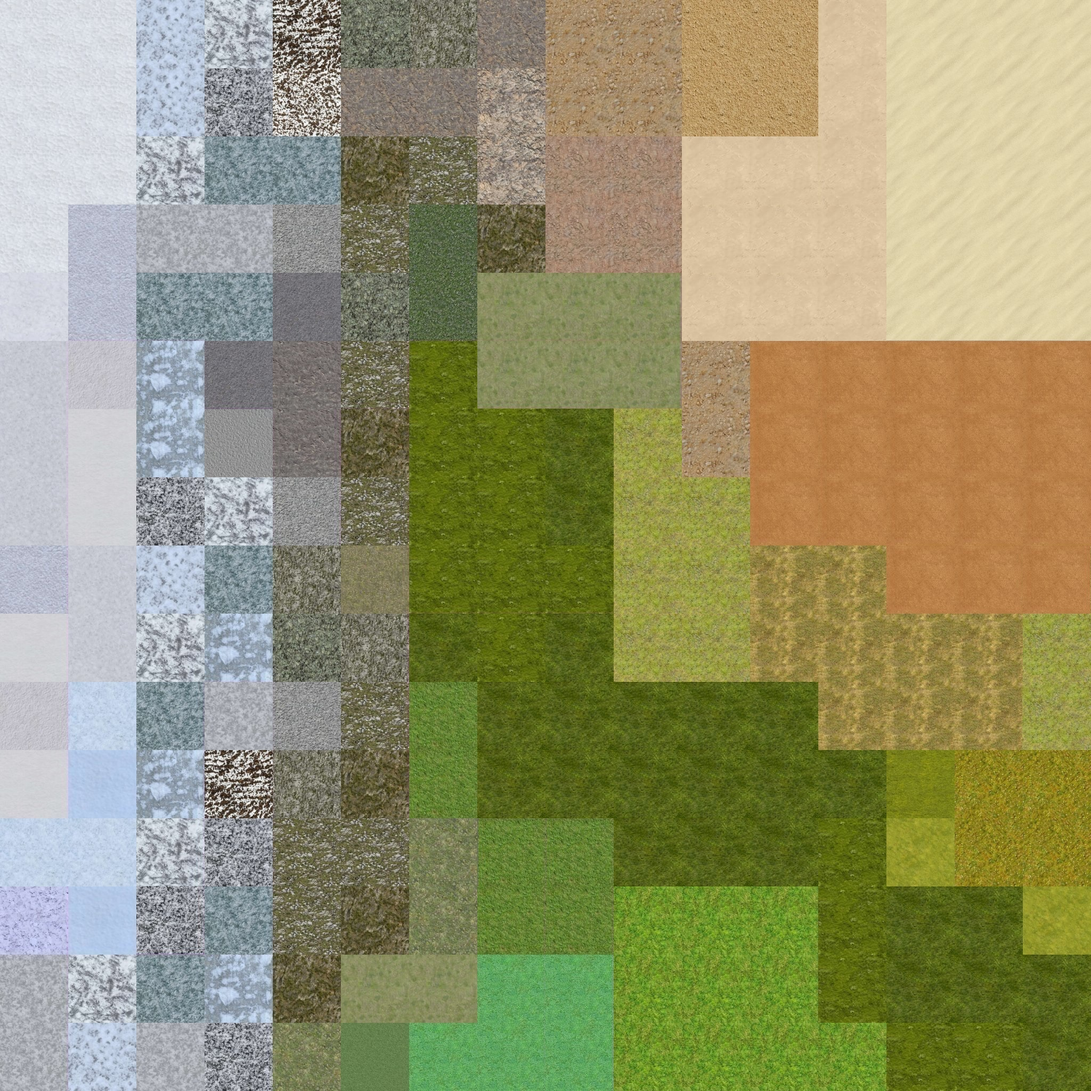
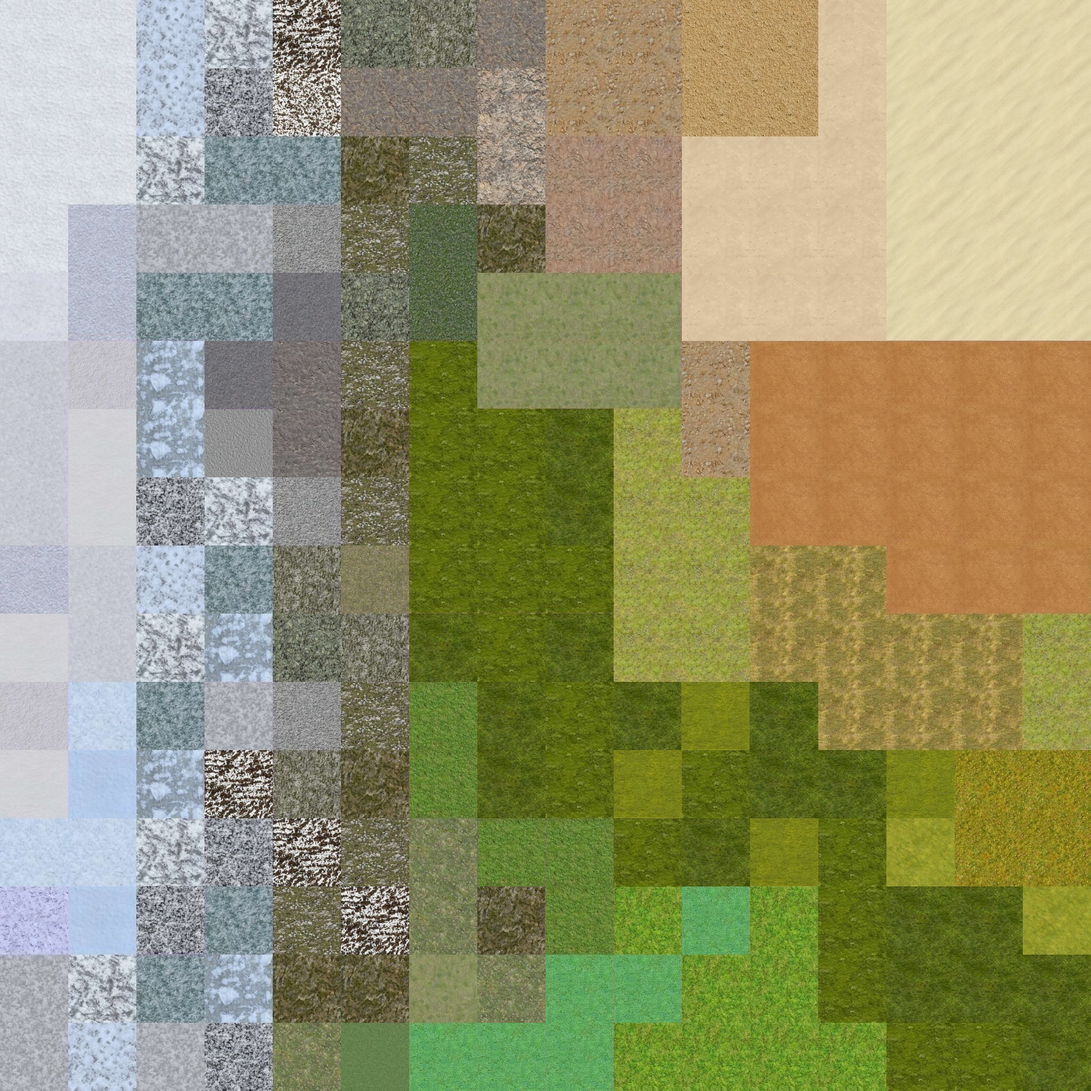
update

diff --git a/orbiters3/dsappclient.cpp b/orbiters3/dsappclient.cpp
@@ -49,18 +49,18 @@ MultiFractalBinder::MultiFractalBinder( void ) :
 m_mask_seed1( 635.298681 ),
 m_mask_seed2( 682.357502 ),
 m_mask_input_half_range( 20.0 ),
-m_mountains_lacunarity( 2.15 ),
-m_mountains_roughness( 0.25 ),
+m_mountains_lacunarity( 2.0 ),
+m_mountains_roughness( 0.35 ),
 m_mountains_input_half_range( 16.0 ),
-m_mountains_amplitude( 4000.0 ),
+m_mountains_amplitude( 1600.0 ),
 m_mountains_seed1( 635.298681 ),
 m_mountains_seed2( 682.357502 ),
 m_plains_lacunarity( 2.6 ),
 m_plains_roughness( 0.5 ),
 m_plains_input_half_range( 0.8 ),
-m_plains_amplitude( 1000.0 ),
-m_plains_seed1( 635.298681 ),
-m_plains_seed2( 682.357502 ),
+m_plains_amplitude( 800.0 ),
+m_plains_seed1( 221.0 ),
+m_plains_seed2( 144.0 ),
 m_vertical_offset( 0.0 )
 {
     m_renderer = SingletonPlugin<DrawSpace::Interface::Renderer>::GetInstance()->m_interface;
@@ -548,16 +548,6 @@ void dsAppClient::init_planet( void )
 
         m_planet_collisions_binder[i]->SetFx( collisions_fx );
 
-        m_planet_collisions_binder[i]->m_mask_seed1 = 671.0;
-        m_planet_collisions_binder[i]->m_mask_seed2 = 8444.0;
-
-        //m_planet_collisions_binder[i]->m_vertical_offset = -1500.0;
-        m_planet_collisions_binder[i]->m_mountains_input_half_range = 16.0;
-        m_planet_collisions_binder[i]->m_mountains_lacunarity = 2.0;
-        m_planet_collisions_binder[i]->m_mountains_roughness = 0.35;
-
-        m_planet_collisions_binder[i]->m_plains_seed1 = 178.0;
-        m_planet_collisions_binder[i]->m_plains_seed2 = 3400.0;
 
     }
 
@@ -570,21 +560,6 @@ void dsAppClient::init_planet( void )
     for( int i = 0; i < 6; i++ )
     {
         m_planet_climate_binder[i]->SetFx( climate_fx );
-
-
-        m_planet_climate_binder[i]->m_mask_seed1 = 671.0;
-        m_planet_climate_binder[i]->m_mask_seed2 = 8444.0;
-
-        //m_planet_climate_binder[i]->m_vertical_offset = -1500.0;
-
-        m_planet_climate_binder[i]->m_mountains_input_half_range = 16.0;
-        m_planet_climate_binder[i]->m_mountains_lacunarity = 2.0;
-        m_planet_climate_binder[i]->m_mountains_roughness = 0.35;
-
-
-        m_planet_climate_binder[i]->m_plains_seed1 = 178.0;
-        m_planet_climate_binder[i]->m_plains_seed2 = 3400.0;
-
     }
 
 
@@ -608,18 +583,6 @@ void dsAppClient::init_planet( void )
         m_planet_detail_binder[i]->SetTexture( texture_th_pixels, 1 );
         m_planet_detail_binder[i]->SetTexture( texture_th_splatting, 2 );
 
-
-        m_planet_detail_binder[i]->m_mask_seed1 = 671.0;
-        m_planet_detail_binder[i]->m_mask_seed2 = 8444.0;
-
-        //m_planet_detail_binder[i]->m_vertical_offset = -1500.0;
-
-        m_planet_detail_binder[i]->m_mountains_input_half_range = 16.0;
-        m_planet_detail_binder[i]->m_mountains_lacunarity = 2.0;
-        m_planet_detail_binder[i]->m_mountains_roughness = 0.35;
-
-        m_planet_detail_binder[i]->m_plains_seed1 = 178.0;
-        m_planet_detail_binder[i]->m_plains_seed2 = 3400.0;
     }
 
 
